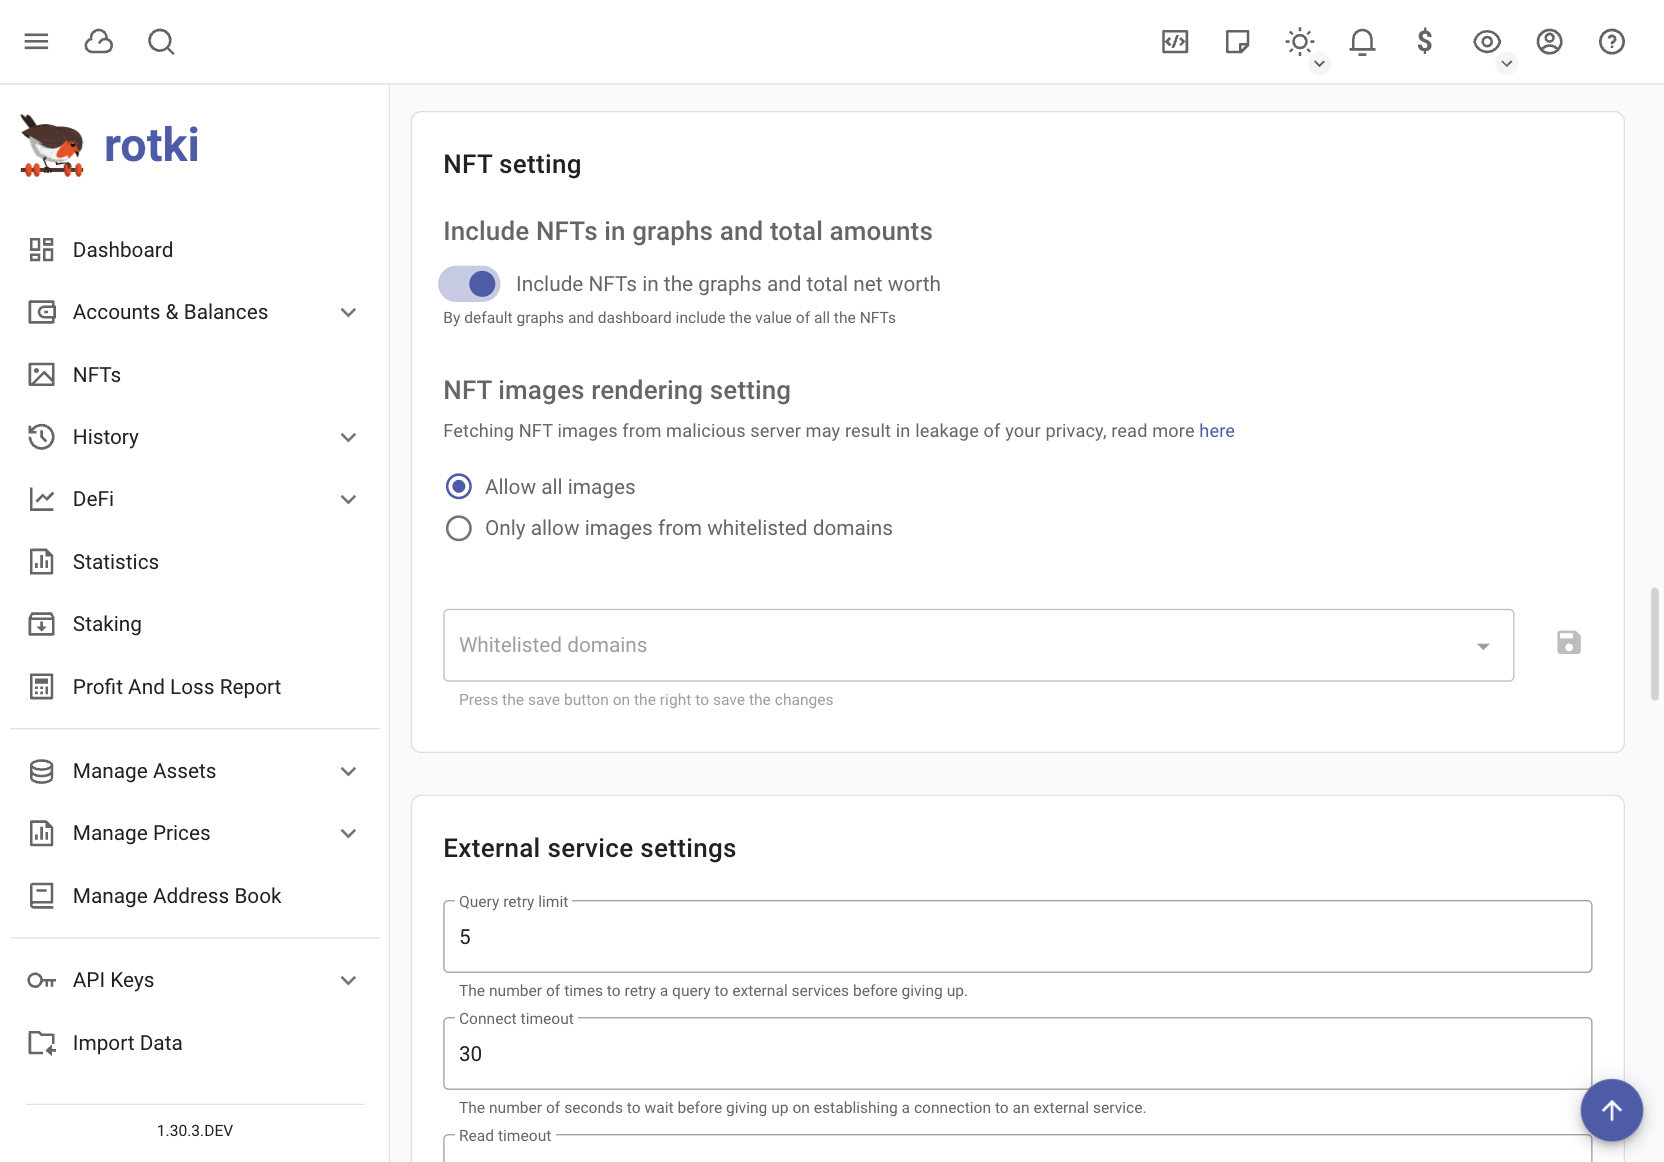
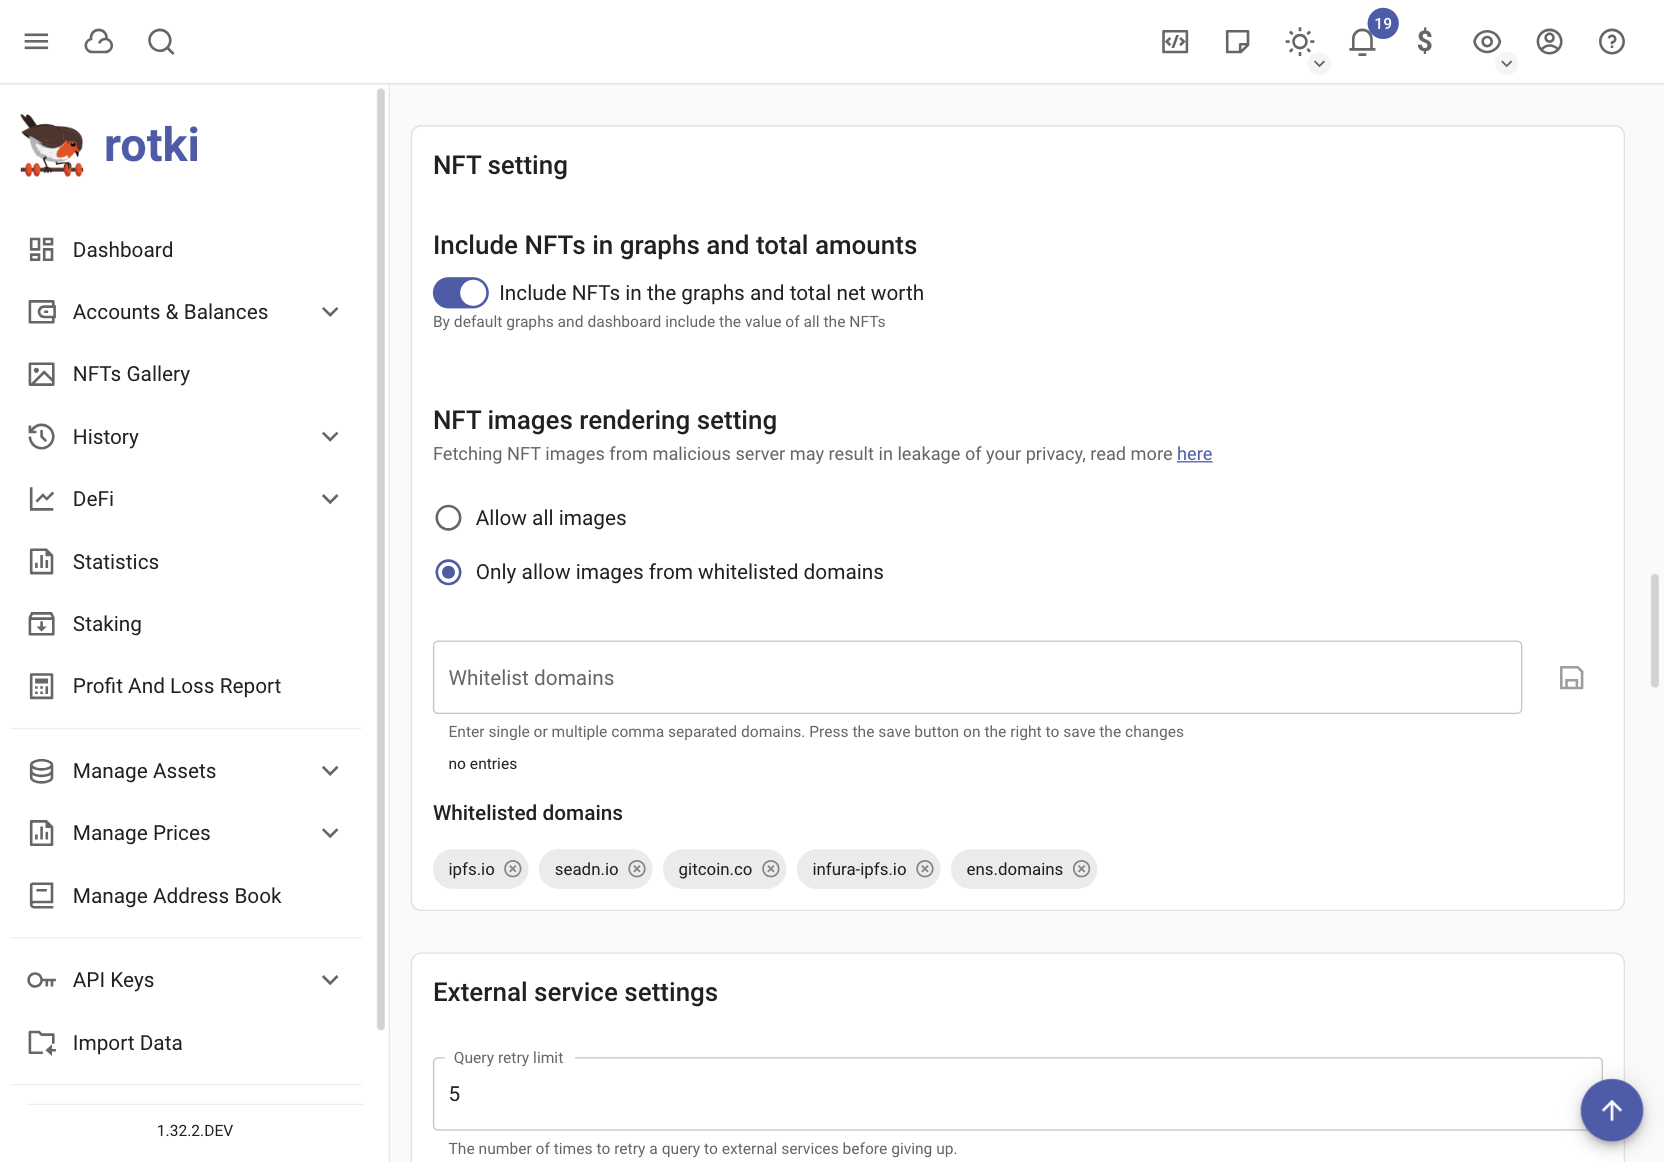
refactor(frontend): update ui for nfts settings, fix layout on nfts gallery (#7843)

diff --git a/frontend/app/src/components/settings/general/nft/NftImageRenderingSetting.vue b/frontend/app/src/components/settings/general/nft/NftImageRenderingSetting.vue
@@ -2,61 +2,39 @@
 import { isEqual } from 'lodash-es';
 import { externalLinks } from '@/data/external-links';
 
-const { t } = useI18n();
-const renderAllNftImages: Ref<'all' | 'whitelisted'> = ref('all');
-const whitelistedDomainsForNftImages: Ref<string[]> = ref([]);
-const showUpdateWhitelistConfirmation: Ref<boolean> = ref(false);
+defineProps<{
+  noPadding?: boolean;
+}>();
 
+const emit = defineEmits<{ (e: 'dialog-open', value: boolean): void }>();
+
+const { t } = useI18n();
+
+const confirmStore = useConfirmStore();
 const frontendStore = useFrontendSettingsStore();
+const { visible } = storeToRefs(confirmStore);
 const {
   renderAllNftImages: renderAll,
   whitelistedDomainsForNftImages: whitelist,
 } = storeToRefs(frontendStore);
 
-const { updateSetting } = frontendStore;
+const renderAllNftImages = ref<'all' | 'whitelisted'>('all');
+const whitelistedDomains = ref('');
+const showUpdateWhitelistConfirmation = ref(false);
 
-onMounted(() => {
-  set(renderAllNftImages, get(renderAll) ? 'all' : 'whitelisted');
-  set(whitelistedDomainsForNftImages, get(whitelist));
-});
+const decodedDomains = computed<string[]>(() => get(whitelistedDomains)
+  .split(',')
+  .filter(value => !!value)
+  .map(val => getDomain(val.trim())),
+);
 
-function onChange(value: string[]) {
-  set(
-    whitelistedDomainsForNftImages,
-    value.map(val => getDomain(val)).filter(uniqueStrings),
-  );
-}
+const whitelistedDomainsForNftImages = computed<string[]>(() => [...get(whitelist), ...get(decodedDomains)].filter(uniqueStrings));
 
-function updateWhitelist() {
-  updateSetting({
-    whitelistedDomainsForNftImages: get(whitelistedDomainsForNftImages),
-  });
-  set(showUpdateWhitelistConfirmation, false);
-}
-
-function reset() {
-  set(whitelistedDomainsForNftImages, get(whitelist));
-  set(showUpdateWhitelistConfirmation, false);
-}
-
-watch(whitelist, (data) => {
-  set(whitelistedDomainsForNftImages, data);
-});
-
-const changed: ComputedRef<boolean> = computed(
+const changed = computed(
   () => !isEqual(get(whitelistedDomainsForNftImages), get(whitelist)),
 );
 
-function confirmUpdated() {
-  const currentValue = get(whitelistedDomainsForNftImages);
-  if (currentValue.length === 0 || !get(changed)) {
-    updateWhitelist();
-    return;
-  }
-  set(showUpdateWhitelistConfirmation, true);
-}
-
-const { show } = useConfirmStore();
+const { show } = confirmStore;
 
 function updateRenderingSetting(value: string, update: (value: any) => void) {
   if (value === 'whitelisted') {
@@ -79,35 +57,47 @@ function updateRenderingSetting(value: string, update: (value: any) => void) {
   );
 }
 
-const css = useCssModule();
+watch([showUpdateWhitelistConfirmation, visible], ([isSaveOpen, isSwitchOpen]) => {
+  emit('dialog-open', isSaveOpen || isSwitchOpen);
+});
+
+onMounted(() => {
+  set(renderAllNftImages, get(renderAll) ? 'all' : 'whitelisted');
+});
 </script>
 
 <template>
-  <div>
-    <RuiCardHeader class="p-0">
-      <template #header>
-        {{
-          t(
-            'general_settings.nft_setting.subtitle.nft_images_rendering_setting',
-          )
-        }}
-      </template>
-      <template #subheader>
-        <i18n
-          tag="div"
-          path="general_settings.nft_setting.subtitle.nft_images_rendering_setting_hint"
-        >
-          <template #link>
-            <ExternalLink
-              color="primary"
-              :url="externalLinks.nftWarning"
-            >
-              {{ t('common.here') }}
-            </ExternalLink>
-          </template>
-        </i18n>
-      </template>
-    </RuiCardHeader>
+  <RuiCard
+    variant="flat"
+    :no-padding="noPadding"
+  >
+    <template #custom-header>
+      <RuiCardHeader :class="{ 'px-0': noPadding }">
+        <template #header>
+          {{
+            t(
+              'general_settings.nft_setting.subtitle.nft_images_rendering_setting',
+            )
+          }}
+        </template>
+        <template #subheader>
+          <i18n
+            tag="div"
+            path="general_settings.nft_setting.subtitle.nft_images_rendering_setting_hint"
+          >
+            <template #link>
+              <ExternalLink
+                color="primary"
+                :url="externalLinks.nftWarning"
+              >
+                {{ t('common.here') }}
+              </ExternalLink>
+            </template>
+          </i18n>
+        </template>
+      </RuiCardHeader>
+    </template>
+
     <SettingsOption
       #default="{ error, success, updateImmediate }"
       setting="renderAllNftImages"
@@ -115,7 +105,6 @@ const css = useCssModule();
     >
       <RuiRadioGroup
         v-model="renderAllNftImages"
-        class="mt-3"
         color="primary"
         :success-messages="success"
         :error-messages="error"
@@ -138,81 +127,94 @@ const css = useCssModule();
       </RuiRadioGroup>
     </SettingsOption>
 
-    <div class="mt-4 flex items-start gap-4">
-      <SettingsOption
-        setting="whitelistedDomainsForNftImages"
-        frontend-setting
-        class="flex-1"
-      >
-        <VCombobox
-          v-model="whitelistedDomainsForNftImages"
-          :class="css['whitelisted-input']"
-          :label="t('general_settings.nft_setting.label.whitelisted_domains')"
+    <SettingsOption
+      #default="{ error, success, updateImmediate }"
+      :error-message="t('general_settings.nft_setting.messages.error')"
+      :success-message="t('general_settings.nft_setting.messages.success')"
+      setting="whitelistedDomainsForNftImages"
+      class="mt-2 flex flex-col gap-4"
+      frontend-setting
+      @updated="whitelistedDomains = ''"
+    >
+      <div class="flex flex-row gap-3.5 items-start">
+        <RuiTextField
+          v-model.trim="whitelistedDomains"
+          :label="t('general_settings.nft_setting.label.whitelist_domains')"
           :hint="
             t('general_settings.nft_setting.label.whitelisted_domains_hint')
           "
-          persistent-hint
-          chips
-          outlined
-          deletable-chips
-          clearable
-          multiple
+          :success-messages="success"
+          :error-messages="error"
           :disabled="renderAllNftImages === 'all'"
-          @change="onChange($event)"
+          class="flex-1"
+          variant="outlined"
+          clearable
         />
-      </SettingsOption>
-      <RuiButton
-        variant="text"
-        icon
-        class="mt-1"
-        :disabled="!changed"
-        @click="confirmUpdated()"
-      >
-        <RuiIcon name="save-line" />
-      </RuiButton>
-    </div>
+        <RuiButton
+          :disabled="!changed"
+          class="mt-1"
+          variant="text"
+          icon
+          @click="showUpdateWhitelistConfirmation = true"
+        >
+          <RuiIcon name="save-line" />
+        </RuiButton>
+      </div>
 
-    <ConfirmDialog
-      :display="showUpdateWhitelistConfirmation"
-      :title="
-        t('general_settings.nft_setting.update_whitelist_confirmation.title')
-      "
-      :message="
-        t(
-          'general_settings.nft_setting.update_whitelist_confirmation.message',
-          1,
-        )
-      "
-      max-width="700"
-      @cancel="reset()"
-      @confirm="updateWhitelist()"
-    >
-      <RuiCard
-        outlined
-        class="mt-4 h-auto"
-      >
-        <ul class="list-disc">
-          <li
-            v-for="domain in whitelistedDomainsForNftImages"
-            :key="domain"
-            class="text-rui-warning font-bold"
+      <p class="text-caption -mt-3 mb-0 px-3">
+        {{ t('general_settings.nft_setting.label.whitelisted_domain_entries', { count: decodedDomains.length }) }}
+      </p>
+
+      <template v-if="whitelist.length > 0">
+        <h5 class="mb-0 font-medium">
+          {{ t('general_settings.nft_setting.label.whitelisted_domains') }}
+        </h5>
+
+        <div class="flex flex-wrap gap-2">
+          <RuiChip
+            v-for="(item, i) in whitelist"
+            :key="i"
+            :disabled="renderAllNftImages !== 'whitelisted'"
+            :closeable="renderAllNftImages === 'whitelisted'"
+            size="sm"
+            @click:close="updateImmediate(whitelist.filter(domain => domain !== item))"
           >
-            {{ domain }}
-          </li>
-        </ul>
-      </RuiCard>
-    </ConfirmDialog>
-  </div>
-</template>
+            {{ item }}
+          </RuiChip>
+        </div>
+      </template>
 
-<style module lang="scss">
-.whitelisted-input {
-  :global {
-    .v-select {
-      &__selections {
-        min-height: auto !important;
-      }
-    }
-  }
-}
-</style>
+      <ConfirmDialog
+        :display="showUpdateWhitelistConfirmation"
+        :title="
+          t('general_settings.nft_setting.update_whitelist_confirmation.title')
+        "
+        :message="
+          t(
+            'general_settings.nft_setting.update_whitelist_confirmation.message',
+            1,
+          )
+        "
+        max-width="700"
+        class="test-class"
+        @cancel="showUpdateWhitelistConfirmation = false"
+        @confirm="updateImmediate(whitelistedDomainsForNftImages); showUpdateWhitelistConfirmation = false"
+      >
+        <RuiCard
+          outlined
+          class="mt-4 h-auto"
+        >
+          <ul class="list-disc">
+            <li
+              v-for="domain in whitelistedDomainsForNftImages"
+              :key="domain"
+              class="text-rui-warning font-bold"
+            >
+              {{ domain }}
+            </li>
+          </ul>
+        </RuiCard>
+      </ConfirmDialog>
+    </SettingsOption>
+  </RuiCard>
+</template>

diff --git a/frontend/app/src/components/settings/general/nft/NftImageRenderingSettingMenu.vue b/frontend/app/src/components/settings/general/nft/NftImageRenderingSettingMenu.vue
@@ -1,6 +1,12 @@
+<script setup lang="ts">
+const dialogOpen = ref(false);
+</script>
+
 <template>
   <RuiMenu
-    menu-class="max-w-[32rem]"
+    menu-class="max-w-[32rem] !z-1"
+    :popper="{ placement: 'bottom-end' }"
+    :persistent="dialogOpen"
   >
     <template #activator="{ on }">
       <RuiButton
@@ -12,10 +18,6 @@
         <RuiIcon name="file-settings-line" />
       </RuiButton>
     </template>
-    <div class="p-4">
-      <VApp>
-        <NftImageRenderingSetting />
-      </VApp>
-    </div>
+    <NftImageRenderingSetting @dialog-open="dialogOpen = $event" />
   </RuiMenu>
 </template>

diff --git a/frontend/app/src/components/settings/NftSettings.vue b/frontend/app/src/components/settings/NftSettings.vue
@@ -16,7 +16,7 @@ const { t } = useI18n();
     </div>
 
     <div class="mt-8">
-      <NftImageRenderingSetting />
+      <NftImageRenderingSetting no-padding />
     </div>
   </SettingCategory>
 </template>
